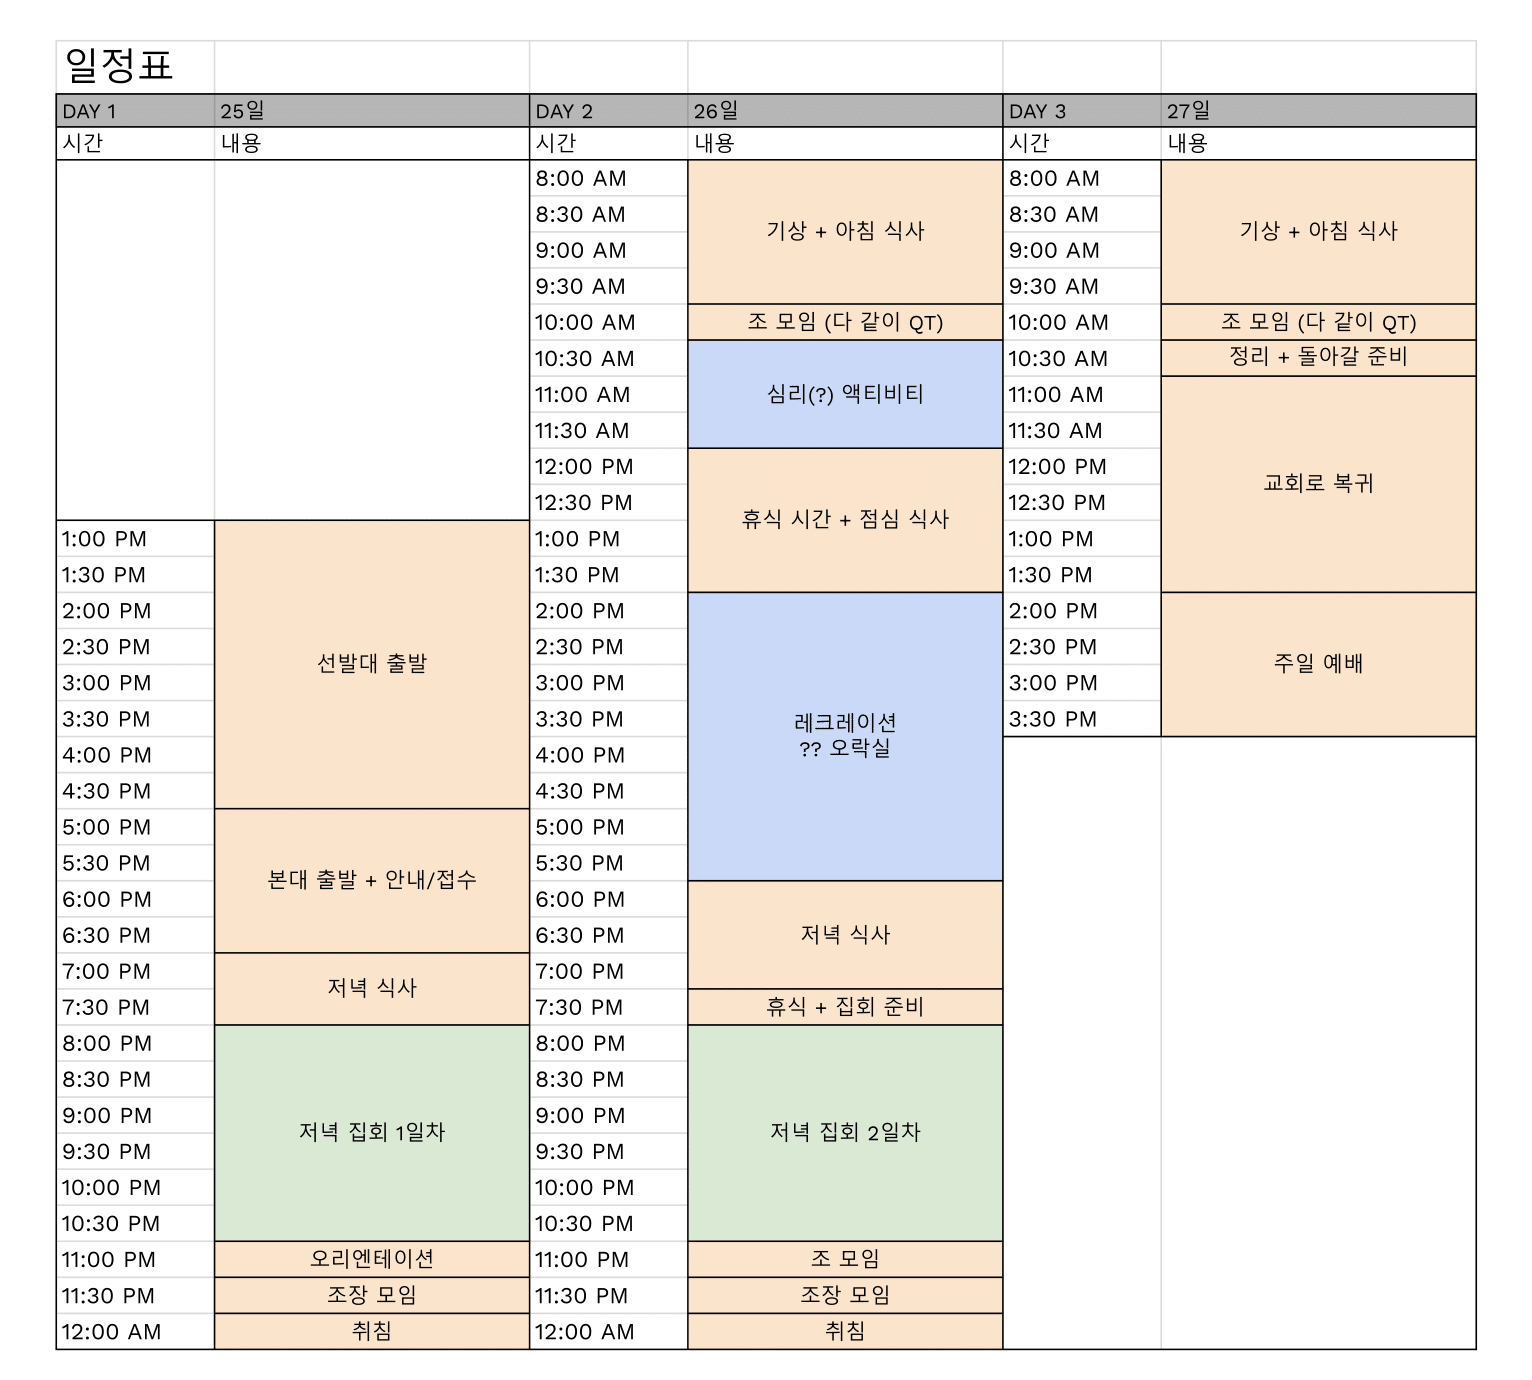
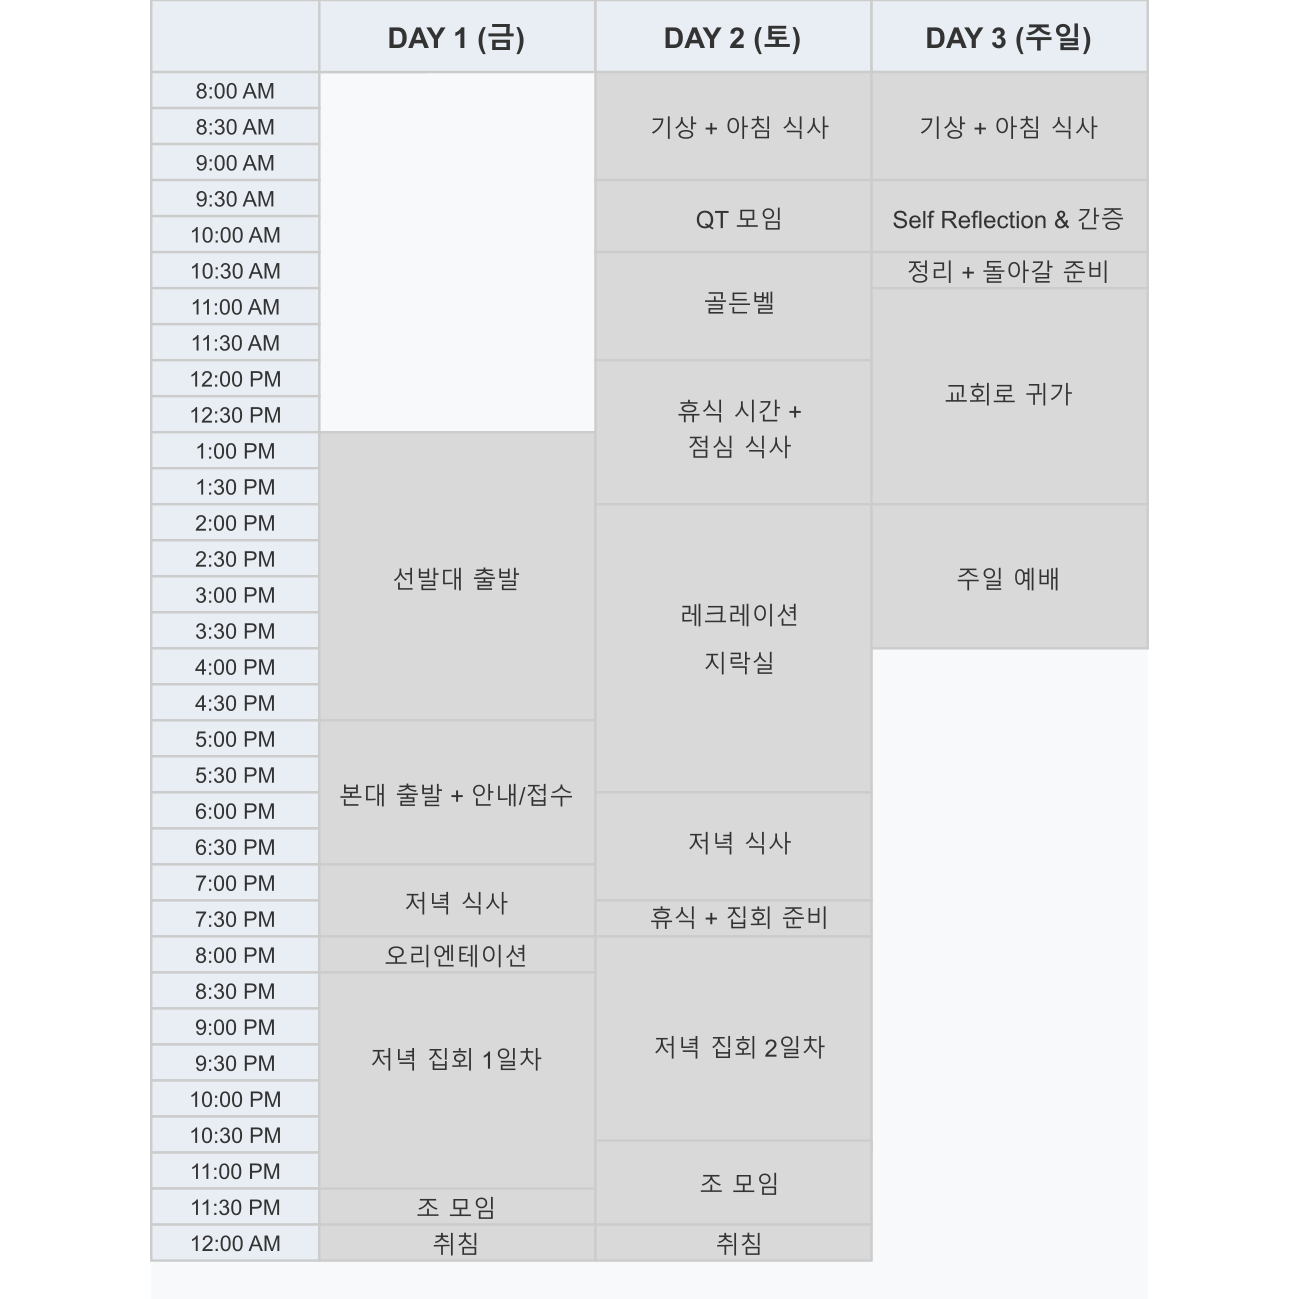
before showcase

diff --git a/src/components/Schedule/content.js b/src/components/Schedule/content.js
@@ -6,31 +6,28 @@ const Content = ({ day = "day1", viewMode = "list" }) => {
             { time: "01:00 PM", activity: "선발대 출발" },
             { time: "05:00 PM", activity: "본대 출발 / \n안내 및 접수" },
             { time: "07:00 PM", activity: "저녁 식사" },
-            { time: "08:00 PM", activity: "저녁 집회 1일차" },
-            { time: "11:00 PM", activity: "오리엔테이션 OT" },
-            { time: "11:30 PM", activity: "조장 모임" },
+            { time: "08:00 PM", activity: "오리엔테이션 OT" },
+            { time: "08:30 PM", activity: "저녁 집회 1일차" },
+            { time: "11:30 PM", activity: "조 모임" },
             { time: "12:00 AM", activity: "취침" }
         ],
         day2: [
-            { time: "08:00 AM", activity: "기상" },
-            { time: "08:10 AM", activity: "아침 식사" },
-            { time: "10:00 AM", activity: "조모임 \n(함께 큐티)" },
-            { time: "10:30 AM", activity: "심리(?) 활동" },
+            { time: "08:00 AM", activity: "기상 / \n아침 식사" },
+            { time: "10:00 AM", activity: "QT모임" },
+            { time: "10:30 AM", activity: "단체 활동 (???)" },
             { time: "12:00 PM", activity: "점심 시간" },
-            { time: "02:00 PM", activity: "??? 오락실 \n(레크레이션)" },
+            { time: "02:00 PM", activity: "레크레이션 (???)" },
             { time: "06:00 PM", activity: "저녁 식사" },
             { time: "07:30 PM", activity: "휴식 및 집회 준비" },
             { time: "08:00 PM", activity: "저녁 집회 2일차" },
-            { time: "11:00 PM", activity: "조모임" },
-            { time: "11:30 PM", activity: "조장 모임" },
+            { time: "11:00 PM", activity: "조 모임" },
             { time: "12:00 AM", activity: "취침" }
         ],
         day3: [
-            { time: "08:00 AM", activity: "기상" },
-            { time: "08:10 AM", activity: "아침 식사" },
-            { time: "10:00 AM", activity: "조모임 \n(함께 큐티~)" },
-            { time: "10:30 AM", activity: "정리 및 복귀 준비" },
-            { time: "11:00 AM", activity: "교회로 복귀" },
+            { time: "08:00 AM", activity: "기상 & 아침 식사" },
+            { time: "10:00 AM", activity: "Self Reflection \n& 간증" },
+            { time: "10:30 AM", activity: "정리 및 귀가 준비" },
+            { time: "11:00 AM", activity: "교회로 귀가" },
             { time: "02:00 PM", activity: "주일 예배" }
         ]
     };

diff --git a/src/components/Menu/Menu.js b/src/components/Menu/Menu.js
@@ -104,7 +104,7 @@ const Menu = ({ onClose }) => {
                             </>
                         ) : (
                             <div className="photo-tab-content">
-                                <h2>🍽 음식 사진 미리보기</h2>
+                                <h2>🍽🥯🥑 수양회 음식 사진 🍖🍲🍜</h2>
                                 <div className="menu-photo">
                                     <img
                                         src="/assets/식단표.jpg"
@@ -112,7 +112,7 @@ const Menu = ({ onClose }) => {
                                         className="menu-image"
                                     />
                                     <div className="photo-caption">
-                                        청1 수양회 메뉴 이미지
+                                        청1 수양회 메뉴 사진!
                                     </div>
                                 </div>
                             </div>

diff --git a/src/components/FAQ/FAQ.js b/src/components/FAQ/FAQ.js
@@ -58,9 +58,9 @@ const FAQ = ({ onClose }) => {
                         (☎ 626-354-8309)으로<br />&nbsp;&nbsp;&nbsp;
                         연락해주세요!</p>
 
-                    <hr style={{ margin: "10px 0", borderTop: "1px dotted #999" }} />
+                    {/* <hr style={{ margin: "10px 0", borderTop: "1px dotted #999" }} /> */}
 
-                    <div className="secret-answer">
+                    {/* <div className="secret-answer">
                         <p><strong>Q: 세번째 문제의 정답은 무엇인가요?</strong><br />
                             <span 
                                 className="reveal-button" 
@@ -78,7 +78,7 @@ const FAQ = ({ onClose }) => {
                                 </span>
                             )}
                         </p>
-                    </div>
+                    </div> */}
                 </div>
             </div>
         </div>

diff --git a/src/config/questions.js b/src/config/questions.js
@@ -6,7 +6,7 @@ const questions = {
     "예삶 1": { question: "둘로스 사역 팀장 이름 3명 말하기!", answer: "팀장 3명 말하기" },
     "예삶 2": { question: "예삶 목희진 전도사님들의 성함을 모두 말하기!", answer: "공병주 전도사님, 최요셉 전도사님, 이형석 전도사님" },
     "예삶 3": { question: "금요일 예배 FFN은 무엇의 줄임말?", answer: "Family Friday Night" },
-    "베델 1": { question: "교회 카페에서 파는 김밥 한줄의 가격은?", answer: "" },
+    "베델 1": { question: "교회 카페에서 파는 김밥 한줄의 가격은?", answer: "$5.5" },
     "베델 2": { question: "2025년 베델교회에 테마는?", answer: "\"여전히 Jesus Alone\"" },
     "수도 1": { question: "인도의 수도는?", answer: "뉴델리" },
     "수도 2": { question: "핀란드의 수도는?", answer: "헬싱키" },

diff --git a/src/config/fileItems.js b/src/config/fileItems.js
@@ -17,23 +17,17 @@ export const fileItems = [
         action: "external",
         url: "https://youtube.com/playlist?list=PLTZLQpiVasvLHMlkEkCFEGCFYrfY592Ck&si=RB_NmeVKVnyNnl5Q"
     },
-    {
-        icon: "👥",
-        name: "조편성.team",
-        action: "window",
-        component: "Team"
-    },
-    {
-        icon: "🎮",
-        name: "레크레이션.bat",
-        action: "page",
-        path: "/jirakshil"
-    },
     // {
-    //     icon: "🌐",
-    //     name: "중요_링크.url",
+    //     icon: "👥",
+    //     name: "조편성.team",
     //     action: "window",
-    //     component: "RSVP"
+    //     component: "Team"
+    // },
+    // {
+    //     icon: "🎮",
+    //     name: "레크레이션.bat",
+    //     action: "page",
+    //     path: "/jirakshil"
     // },
     {
         icon: "🍽",

diff --git a/src/pages/HomePage/HomePage.js b/src/pages/HomePage/HomePage.js
@@ -70,6 +70,8 @@ const HomePage = () => {
     return (
         <div className="windows-startup">
             <Title />
+            <Timer />
+            <RSVP />
 
             {/* <Program onFileClick={handleFileClick} />
             {openFileItems.map((item) => (
@@ -83,11 +85,8 @@ const HomePage = () => {
                     />
                 </div>
             ))} */}
-
-            <Timer />
-            <RSVP />
+            
             <FAQ />
-            <Confidential />
         </div>
     );
 };

diff --git a/src/components/Schedule/Schedule.js b/src/components/Schedule/Schedule.js
@@ -9,7 +9,7 @@ const Schedule = ({ onClose }) => {
     const [windowTab, setWindowTab] = useState("schedule"); // "schedule" or "download"
 
     // Path to the schedule PNG in the public folder
-    const schedulePngPath = process.env.PUBLIC_URL + "/assets/2025_청1_수양회_일정표.png";
+    const schedulePngPath = process.env.PUBLIC_URL + "/assets/timetable.png";
 
     const handleMinimize = () => {
         setIsMinimized(!isMinimized);
